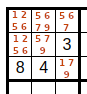
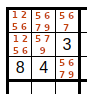
finishing text and adding final images

Changed region(s): [[0.6667, 0.7447, 0.8506, 0.8298], [0.7816, 0.617, 0.8506, 0.7021], [0.6667, 0.617, 0.7586, 0.7021]]

diff --git a/docs/_pages/solving-tips.md b/docs/_pages/solving-tips.md
@@ -8,7 +8,7 @@ header:
     overlay_filter: 0.3
     caption: "Photo credit: [**Unsplash**](https://unsplash.com)"
 ---
-Ready to take your Sudoku skills to the next level? In this section, you will find valuable tips and techniques to help you solve Sudoku puzzles efficiently. From simple strategies to advanced methods, you'll learn how to analyze the grid, identify patterns, and make logical deductions. With these solving tips, you'll be able to tackle even the most challenging Sudoku puzzles with confidence.
+Ready to take your Sudoku skills to the next level? In this section, you will find valuable tips and techniques to help you solve Sudoku puzzles efficiently. With these simple strategies you'll learn how to analyze the grid, identify patterns, and make logical deductions that will help you solve some harder Sudoku puzzles!
 
 ### Writing Down Candidate Numbers in Cells
 
@@ -27,12 +27,12 @@ In more complex Sudoku puzzles, it's often beneficial to write down potential ca
 
 Let's take a look at a simple Sudoku puzzle and see how writing down candidate numbers can be helpful:
 
-![Writing down candidates example](/images/solving-tips/writing-down-candidates.png){:style="display: block; margin: auto;"}
+![Writing down candidates example](https://p-lemonish.github.io/Sudoku-Starterclass/images/solving-tips/writing-down-candidates.png){:style="display: block; margin: auto;"}
 <div style="text-align: center; font-style: italic; font-size: 0.8em; margin-top: -1.5em">
     An example of box #6 pencil marked with all possible candidates in each cell
 </div>
 
-In the example above, we've written down potential candidate numbers in each empty cell for box #6. This allows us to quickly identify which numbers can potentially go in each cell, aiding in the solving process.
+In the example above, I've written down potential candidate numbers in each empty cell for box #6. This allows us to quickly identify which numbers can potentially go in each cell, aiding in the solving process.
 
 By incorporating the practice of writing down candidate numbers into your Sudoku-solving strategy, you'll have a powerful tool at your disposal. It enables you to approach even the most challenging puzzles with confidence and precision. Practice this technique, and you'll find it significantly enhances your ability to solve Sudoku puzzles efficiently.
 
@@ -46,19 +46,30 @@ Naked Pairs is an advanced technique that involves identifying a set of candidat
    - Once you've identified naked candidates, you can eliminate those numbers as possibilities in other cells of the unit.
 
 **Example**:
+
 As an example, let's take a single box from another Sudoku puzzle. Let's start by writing down candidates.
-![Naked Pairs Example](/images/solving-tips/naked-pair-example-1.png){:style="display: block; margin: auto;"}
+![Naked Pairs Example](https://p-lemonish.github.io/Sudoku-Starterclass/images/solving-tips/naked-pair-example-1.png){:style="display: block; margin: auto;"}
 <div style="text-align: center; font-style: italic; font-size: 0.8em; margin-top: -1.5em">
     An example of a box with all of the possible candidates set in each cell
 </div>
-![Naked Pairs Example](/images/solving-tips/naked-pair-example-2.png){:style="display: block; margin: auto;"}
+Next let's look to see if there are any candidates confined to a few cells within the unit. Unit in this case is the box we're analyzing.
+![Naked Pairs Example](https://p-lemonish.github.io/Sudoku-Starterclass/images/solving-tips/naked-pair-example-2.png){:style="display: block; margin: auto;"}
 <div style="text-align: center; font-style: italic; font-size: 0.8em; margin-top: -1.5em">
     Naked 5 and 6 pair circled for visibility
 </div>
-![Naked Pairs Example](/images/solving-tips/naked-pair-example-3.png){:style="display: block; margin: auto;"}
+After noticing the naked 5-6 pair, since there cannot be any other numbers in those two cells, we can logically deduce that 5 and 6 can be removed from all other cells within the unit.
+![Naked Pairs Example](https://p-lemonish.github.io/Sudoku-Starterclass/images/solving-tips/naked-pair-example-3.png){:style="display: block; margin: auto;"}
 <div style="text-align: center; font-style: italic; font-size: 0.8em; margin-top: -1.5em">
     Eliminate the digits 5 and 6 from all the other cells due to the elimination rule
 </div>
+<details>
+<b>A: There is a 1-2 naked pair that appeared in the top left corner!</b>
+<summary>
+Q: Do you notice the next naked pair appearing after eliminating 5-6 from all the other cells? (click to expand for a hint)
+</summary>
+</details>
+<br>
+What happens to the bottom right corner cell with candidates 1, 7, and 9 in it?
 
 ### Hidden Pairs
 Hidden Pairs is another powerful technique used in Sudoku solving. It involves identifying a set of candidate numbers that are confined to a specific set of cells within a box, row, or column, but they may also have additional candidates. Here's what you need to know:
@@ -70,17 +81,20 @@ Hidden Pairs is another powerful technique used in Sudoku solving. It involves i
    - Once you've identified hidden candidates, you can exclude those numbers from being possibilities in other cells of the unit.
 
 **Example**:
-![Hidden Pairs Example](/images/solving-tips/hidden-pair-example-1.png){:style="display: block; margin: auto;"}
+As an example, let's take the same box from the previous example although this time let's make it slightly harder. Let's start by writing down candidates.
+![Hidden Pairs Example](https://p-lemonish.github.io/Sudoku-Starterclass/images/solving-tips/hidden-pair-example-1.png){:style="display: block; margin: auto;"}
 <div style="text-align: center; font-style: italic; font-size: 0.8em; margin-top: -1.5em">
     An example of a box with all of the possible candidates set in each cell
 </div>
-![Hidden Pairs Example](/images/solving-tips/hidden-pair-example-2.png){:style="display: block; margin: auto;"}
+As opposed to the example seen previously, the 5-6 naked pair is no longer there, so what can be seen? There are only two cells in which the digits 1 and 2 can go into, they're hidden between all the other candidates so it might be hard to see.
+![Hidden Pairs Example](https://p-lemonish.github.io/Sudoku-Starterclass/images/solving-tips/hidden-pair-example-2.png){:style="display: block; margin: auto;"}
 <div style="text-align: center; font-style: italic; font-size: 0.8em; margin-top: -1.5em">
     Hidden 1 and 2 pair circled for visibility
 </div>
-![Hidden Pairs Example](/images/solving-tips/hidden-pair-example-3.png){:style="display: block; margin: auto;"}
+Since 1 and 2 cannot be place anywhere else in the unit, we can remove all the other candidates from these two cells making the unit neater.
+![Hidden Pairs Example](https://p-lemonish.github.io/Sudoku-Starterclass/images/solving-tips/hidden-pair-example-3.png){:style="display: block; margin: auto;"}
 <div style="text-align: center; font-style: italic; font-size: 0.8em; margin-top: -1.5em">
     Exclude all other digits from the 1-2 pair cells due to there being no other possible cells to place those digits in
 </div>
 
-With these advanced techniques, you'll be equipped to tackle even the most challenging Sudoku puzzles. Practice and patience are key, so don't be discouraged if it takes some time to master these strategies. Happy Sudoku solving!
+With these techniques, you'll be equipped to tackle more challening Sudoku puzzles. Practice and patience are key, so don't be discouraged if it takes some time to master these strategies. Happy Sudoku solving!
